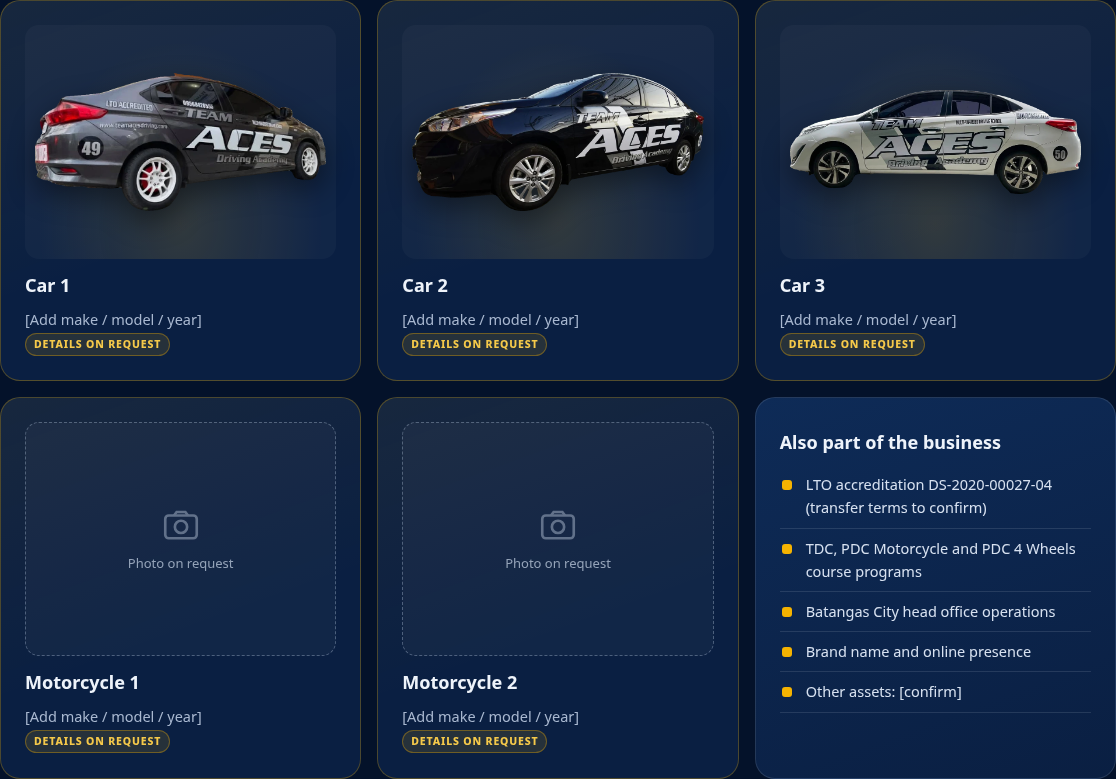
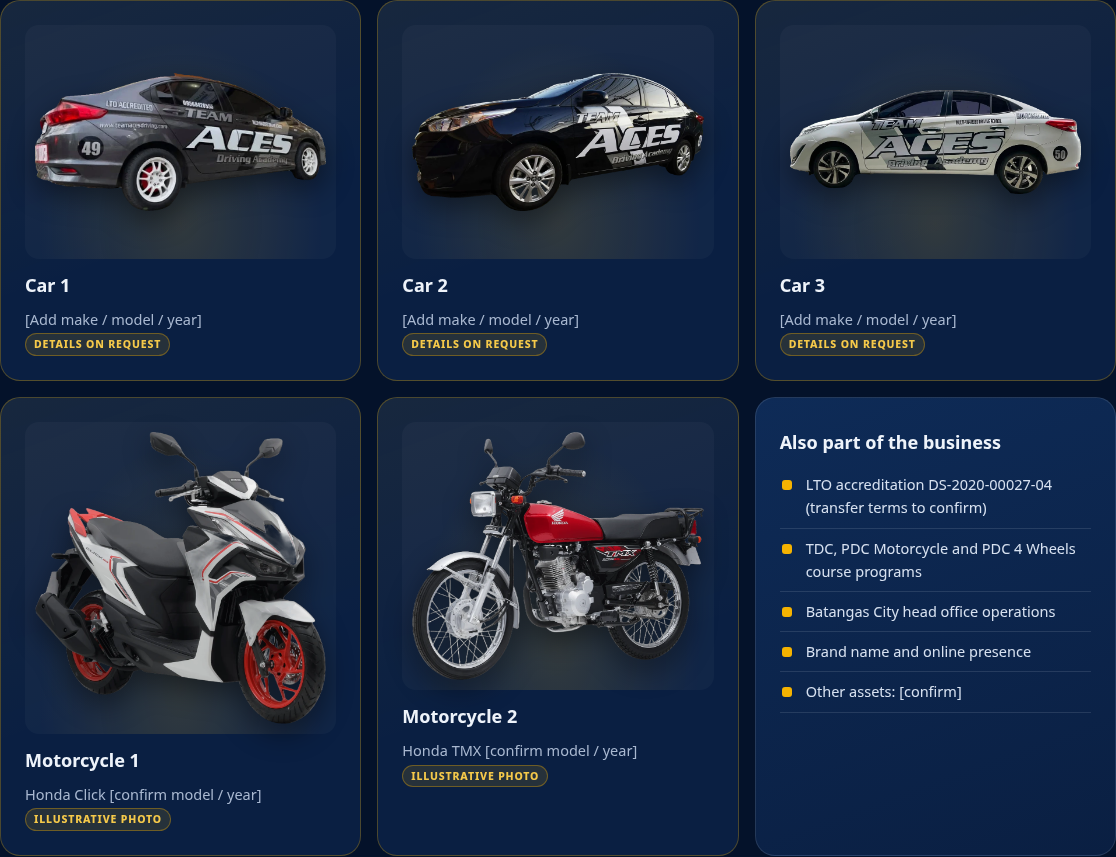
Add Honda Click and TMX motorcycle cutouts (illustrative photos)

diff --git a/docs/index.html b/docs/index.html
@@ -96,7 +96,7 @@
   <div class="kicker rv">What&#39;s included</div>
   <h2 class="rv">Training fleet: 3 cars and 2 motorcycles</h2>
   <p class="sub rv">Make, model and year details, and motorcycle photos, are available on request.</p>
-  <div class="grid g3"><div class="card ph-card rv" style="--d:0ms"><div class="slot slot-img"><img src="assets/vehicles/car-1.webp" loading="lazy" alt="TeamAces Driving Academy training car 1, white and black livery"></div><h3>Car 1</h3><p>[Add make / model / year]</p><span class="tag tag-ph">Details on request</span></div><div class="card ph-card rv" style="--d:80ms"><div class="slot slot-img"><img src="assets/vehicles/car-2.webp" loading="lazy" alt="TeamAces Driving Academy training car 2, white and black livery"></div><h3>Car 2</h3><p>[Add make / model / year]</p><span class="tag tag-ph">Details on request</span></div><div class="card ph-card rv" style="--d:160ms"><div class="slot slot-img"><img src="assets/vehicles/car-3.webp" loading="lazy" alt="TeamAces Driving Academy training car 3, white and black livery"></div><h3>Car 3</h3><p>[Add make / model / year]</p><span class="tag tag-ph">Details on request</span></div><div class="card ph-card rv" style="--d:240ms"><div class="slot"><div><svg viewBox="0 0 24 24" fill="none" stroke="currentColor" stroke-width="1.5" aria-hidden="true"><rect x="3" y="6" width="18" height="13" rx="2"/><circle cx="12" cy="12.5" r="3.5"/><path d="M8 6l1.5-2h5L16 6"/></svg>Photo on request</div></div><h3>Motorcycle 1</h3><p>[Add make / model / year]</p><span class="tag tag-ph">Details on request</span></div><div class="card ph-card rv" style="--d:320ms"><div class="slot"><div><svg viewBox="0 0 24 24" fill="none" stroke="currentColor" stroke-width="1.5" aria-hidden="true"><rect x="3" y="6" width="18" height="13" rx="2"/><circle cx="12" cy="12.5" r="3.5"/><path d="M8 6l1.5-2h5L16 6"/></svg>Photo on request</div></div><h3>Motorcycle 2</h3><p>[Add make / model / year]</p><span class="tag tag-ph">Details on request</span></div>
+  <div class="grid g3"><div class="card ph-card rv" style="--d:0ms"><div class="slot slot-img"><img src="assets/vehicles/car-1.webp" loading="lazy" alt="TeamAces Driving Academy training car 1, white and black livery"></div><h3>Car 1</h3><p>[Add make / model / year]</p><span class="tag tag-ph">Details on request</span></div><div class="card ph-card rv" style="--d:80ms"><div class="slot slot-img"><img src="assets/vehicles/car-2.webp" loading="lazy" alt="TeamAces Driving Academy training car 2, white and black livery"></div><h3>Car 2</h3><p>[Add make / model / year]</p><span class="tag tag-ph">Details on request</span></div><div class="card ph-card rv" style="--d:160ms"><div class="slot slot-img"><img src="assets/vehicles/car-3.webp" loading="lazy" alt="TeamAces Driving Academy training car 3, white and black livery"></div><h3>Car 3</h3><p>[Add make / model / year]</p><span class="tag tag-ph">Details on request</span></div><div class="card ph-card rv" style="--d:240ms"><div class="slot slot-img"><img src="assets/vehicles/motorcycle-1.webp" loading="lazy" alt="Honda Click motorcycle, illustrative manufacturer photo"></div><h3>Motorcycle 1</h3><p>Honda Click [confirm model / year]</p><span class="tag tag-ph">Illustrative photo</span></div><div class="card ph-card rv" style="--d:320ms"><div class="slot slot-img"><img src="assets/vehicles/motorcycle-2.webp" loading="lazy" alt="Honda TMX motorcycle, illustrative manufacturer photo"></div><h3>Motorcycle 2</h3><p>Honda TMX [confirm model / year]</p><span class="tag tag-ph">Illustrative photo</span></div>
     <div class="card rv"><h3>Also part of the business</h3><ul class="list"><li>LTO accreditation DS-2020-00027-04 (transfer terms to confirm)</li><li>TDC, PDC Motorcycle and PDC 4 Wheels course programs</li><li>Batangas City head office operations</li><li>Brand name and online presence</li><li>Other assets: [confirm]</li></ul></div>
   </div>
 </div></section>

diff --git a/index.html b/index.html
@@ -96,7 +96,7 @@
   <div class="kicker rv">What&#39;s included</div>
   <h2 class="rv">Training fleet: 3 cars and 2 motorcycles</h2>
   <p class="sub rv">Make, model and year details, and motorcycle photos, are available on request.</p>
-  <div class="grid g3"><div class="card ph-card rv" style="--d:0ms"><div class="slot slot-img"><img src="assets/vehicles/car-1.webp" loading="lazy" alt="TeamAces Driving Academy training car 1, white and black livery"></div><h3>Car 1</h3><p>[Add make / model / year]</p><span class="tag tag-ph">Details on request</span></div><div class="card ph-card rv" style="--d:80ms"><div class="slot slot-img"><img src="assets/vehicles/car-2.webp" loading="lazy" alt="TeamAces Driving Academy training car 2, white and black livery"></div><h3>Car 2</h3><p>[Add make / model / year]</p><span class="tag tag-ph">Details on request</span></div><div class="card ph-card rv" style="--d:160ms"><div class="slot slot-img"><img src="assets/vehicles/car-3.webp" loading="lazy" alt="TeamAces Driving Academy training car 3, white and black livery"></div><h3>Car 3</h3><p>[Add make / model / year]</p><span class="tag tag-ph">Details on request</span></div><div class="card ph-card rv" style="--d:240ms"><div class="slot"><div><svg viewBox="0 0 24 24" fill="none" stroke="currentColor" stroke-width="1.5" aria-hidden="true"><rect x="3" y="6" width="18" height="13" rx="2"/><circle cx="12" cy="12.5" r="3.5"/><path d="M8 6l1.5-2h5L16 6"/></svg>Photo on request</div></div><h3>Motorcycle 1</h3><p>[Add make / model / year]</p><span class="tag tag-ph">Details on request</span></div><div class="card ph-card rv" style="--d:320ms"><div class="slot"><div><svg viewBox="0 0 24 24" fill="none" stroke="currentColor" stroke-width="1.5" aria-hidden="true"><rect x="3" y="6" width="18" height="13" rx="2"/><circle cx="12" cy="12.5" r="3.5"/><path d="M8 6l1.5-2h5L16 6"/></svg>Photo on request</div></div><h3>Motorcycle 2</h3><p>[Add make / model / year]</p><span class="tag tag-ph">Details on request</span></div>
+  <div class="grid g3"><div class="card ph-card rv" style="--d:0ms"><div class="slot slot-img"><img src="assets/vehicles/car-1.webp" loading="lazy" alt="TeamAces Driving Academy training car 1, white and black livery"></div><h3>Car 1</h3><p>[Add make / model / year]</p><span class="tag tag-ph">Details on request</span></div><div class="card ph-card rv" style="--d:80ms"><div class="slot slot-img"><img src="assets/vehicles/car-2.webp" loading="lazy" alt="TeamAces Driving Academy training car 2, white and black livery"></div><h3>Car 2</h3><p>[Add make / model / year]</p><span class="tag tag-ph">Details on request</span></div><div class="card ph-card rv" style="--d:160ms"><div class="slot slot-img"><img src="assets/vehicles/car-3.webp" loading="lazy" alt="TeamAces Driving Academy training car 3, white and black livery"></div><h3>Car 3</h3><p>[Add make / model / year]</p><span class="tag tag-ph">Details on request</span></div><div class="card ph-card rv" style="--d:240ms"><div class="slot slot-img"><img src="assets/vehicles/motorcycle-1.webp" loading="lazy" alt="Honda Click motorcycle, illustrative manufacturer photo"></div><h3>Motorcycle 1</h3><p>Honda Click [confirm model / year]</p><span class="tag tag-ph">Illustrative photo</span></div><div class="card ph-card rv" style="--d:320ms"><div class="slot slot-img"><img src="assets/vehicles/motorcycle-2.webp" loading="lazy" alt="Honda TMX motorcycle, illustrative manufacturer photo"></div><h3>Motorcycle 2</h3><p>Honda TMX [confirm model / year]</p><span class="tag tag-ph">Illustrative photo</span></div>
     <div class="card rv"><h3>Also part of the business</h3><ul class="list"><li>LTO accreditation DS-2020-00027-04 (transfer terms to confirm)</li><li>TDC, PDC Motorcycle and PDC 4 Wheels course programs</li><li>Batangas City head office operations</li><li>Brand name and online presence</li><li>Other assets: [confirm]</li></ul></div>
   </div>
 </div></section>

diff --git a/build.py b/build.py
@@ -5,7 +5,8 @@ veh=[("Car 1","car"),("Car 2","car"),("Car 3","car"),("Motorcycle 1","motorcycle
 def vcard(i,n,k):
     if k=="car":
         return f'<div class="card ph-card rv" style="--d:{i*80}ms"><div class="slot slot-img"><img src="assets/vehicles/car-{i+1}.webp" loading="lazy" alt="TeamAces Driving Academy training car {i+1}, white and black livery"></div><h3>{n}</h3><p>[Add make / model / year]</p><span class="tag tag-ph">Details on request</span></div>'
-    return f'<div class="card ph-card rv" style="--d:{i*80}ms"><div class="slot"><div>{CAM}Photo on request</div></div><h3>{n}</h3><p>[Add make / model / year]</p><span class="tag tag-ph">Details on request</span></div>'
+    j=i-3; mk=["Honda Click","Honda TMX"][j]
+    return f'<div class="card ph-card rv" style="--d:{i*80}ms"><div class="slot slot-img"><img src="assets/vehicles/motorcycle-{j+1}.webp" loading="lazy" alt="{mk} motorcycle, illustrative manufacturer photo"></div><h3>{n}</h3><p>{mk} [confirm model / year]</p><span class="tag tag-ph">Illustrative photo</span></div>'
 vehicles="".join(vcard(i,n,k) for i,(n,k) in enumerate(veh))
 team=[("jay","Jerickson Baes","Coach Jay","Chief Instructor",12),("ronnel","Ronnel Pasia","Coach Ronnel","Driving Instructor",11),("ericson","Ericson Hernandez","Coach Ericson","Driving Instructor",10),("noel","Noel Perez","Coach Noel","Theoretical and Practical Driving Instructor",6),("marlon","Marlon T. Balbuena","Coach Marlon","Operations Manager &amp; Instructor",6),("janica","Janica Dimaunahan","Janica","Accounting Staff &amp; Admin",6),("kim","Kim De Chavez","Coach Kim","Driving Instructor",2)]
 emps="".join(f'<figure class="card person rv" style="--d:{i*70}ms"><img src="assets/team/{s}.jpg" width="400" height="500" loading="lazy" alt="{n}, {r}"><figcaption><span class="yrs">{y} yrs</span><h3>{n}</h3><p>{r}</p></figcaption></figure>' for i,(s,n,c,r,y) in enumerate(team))
